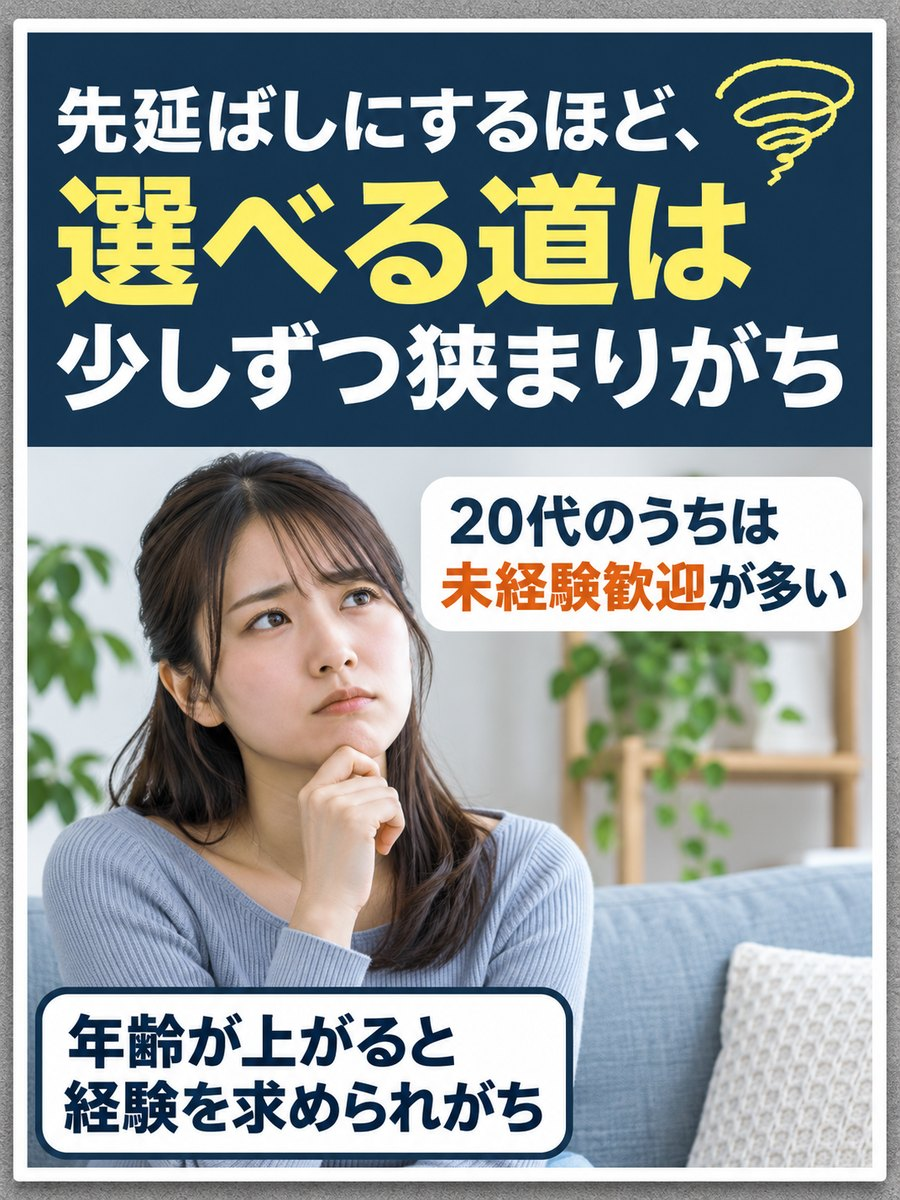
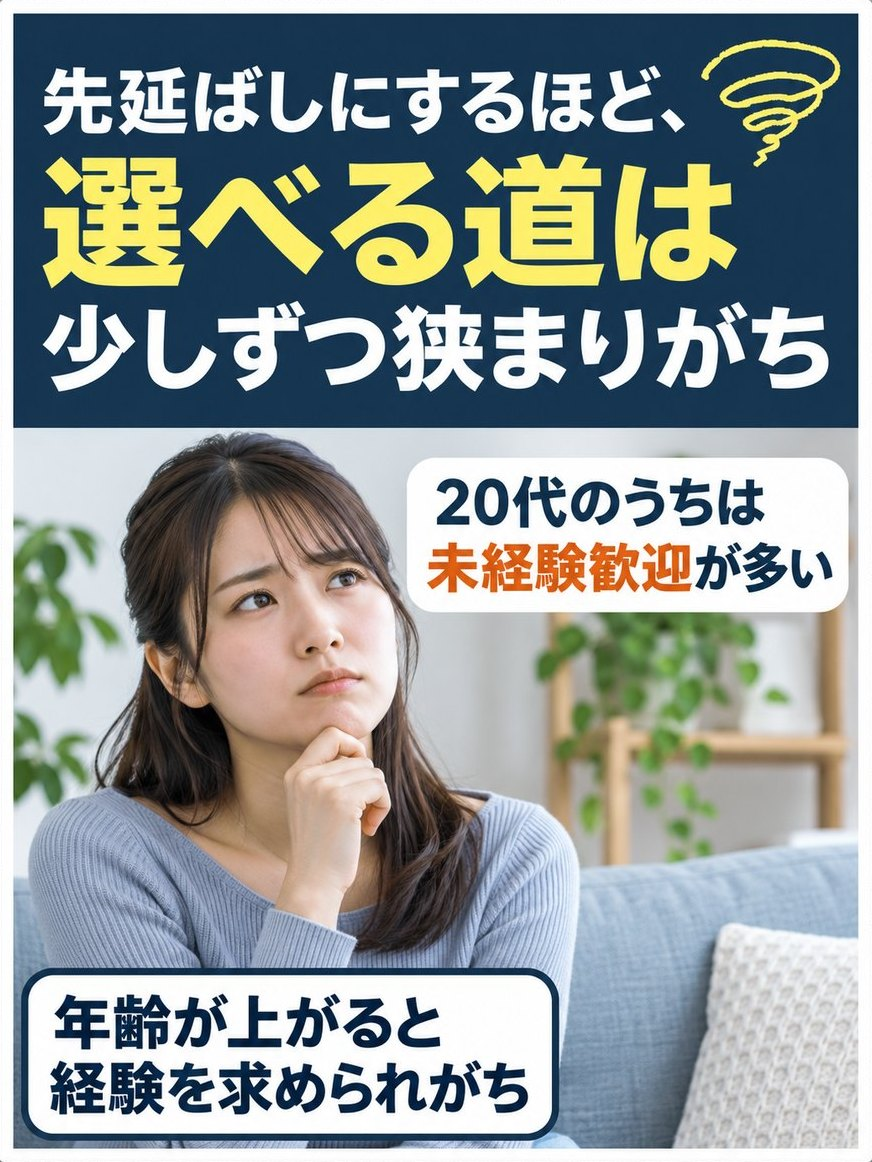
v2 round8: cracked-paper dark texture (GPT), FV person/medals, square voice & job cards

diff --git a/docs/v2/index.html b/docs/v2/index.html
@@ -70,10 +70,10 @@
 
 <!-- 5 暗転 -->
 <section class="dark"><i class="sp s1"></i><i class="sp s2"></i>
-  <p class="dk-lead">しかも、このまま<br>我慢して働き続けても、、、</p>
-  <img class="secimg dk" src="img/sec_dark1.jpg" width="900" height="1200" alt="先延ばしにするほど、選べる道は少しずつ狭まりがち。20代のうちは未経験歓迎が多い。年齢が上がると経験を求められがち。" loading="lazy">
-  <img class="secimg dk" src="img/sec_dark2.jpg" width="900" height="900" alt="休みも手取りもずっと変わらないまま。数年後…。いまの職場／動いた場合。" loading="lazy">
-  <img class="secimg dk" src="img/sec_dark3.jpg" width="900" height="900" alt="心にも時間にも余裕ナシ。なんてことに、、！" loading="lazy">
+  <p class="dk-lead"><span class="l1">しかも、このまま</span><br><span class="l2">我慢して働き続けても、、、</span></p>
+  <img class="secimg dk" src="img/sec_dark1.jpg" width="872" height="1162" alt="先延ばしにするほど、選べる道は少しずつ狭まりがち。20代のうちは未経験歓迎が多い。年齢が上がると経験を求められがち。" loading="lazy">
+  <img class="secimg dk" src="img/sec_dark2.jpg" width="860" height="854" alt="休みも手取りもずっと変わらないまま。数年後…。いまの職場／動いた場合。" loading="lazy">
+  <img class="secimg dk" src="img/sec_dark3.jpg" width="858" height="860" alt="心にも時間にも余裕ナシ。なんてことに、、！" loading="lazy">
 </section>
 
 <!-- 6 どうすれば／エージェント -->
@@ -153,18 +153,18 @@
 <section class="jobs">
   <h2 class="jb-h">こんな求人の相談が多いです</h2>
   <ul class="jb-chips"><li>平均年収<b>113万円UP</b></li><li>内定率<b>80%以上</b></li><li>定着率<b>96%</b></li></ul>
-    <img class="cardimg jobimg" src="img/sec_job1.jpg" width="900" height="1125" alt="一般事務・営業事務：土日祝休みの求人を中心に／未経験歓迎のものから／残業の少なさも確認／勤務地・働き方を相談" loading="lazy">
-  <img class="cardimg jobimg" src="img/sec_job2.jpg" width="900" height="1125" alt="カスタマーサポート：電話・チャット・メール対応／研修のある職場を中心に／人と話すのが好きな方向け／未経験歓迎" loading="lazy">
-  <img class="cardimg jobimg" src="img/sec_job3.jpg" width="900" height="1125" alt="リモート事務職：在宅でできる仕事も相談可／出社の頻度は求人ごとに確認／通勤の負担を減らしたい方に／未経験歓迎" loading="lazy">
+    <img class="cardimg jobimg" src="img/sec_job1.jpg" width="900" height="900" alt="一般事務・営業事務：土日祝休みの求人を中心に／未経験歓迎のものから／残業の少なさも確認／勤務地・働き方を相談" loading="lazy">
+  <img class="cardimg jobimg" src="img/sec_job2.jpg" width="900" height="900" alt="カスタマーサポート：電話・チャット・メール対応／研修のある職場を中心に／人と話すのが好きな方向け／未経験歓迎" loading="lazy">
+  <img class="cardimg jobimg" src="img/sec_job3.jpg" width="900" height="900" alt="リモート事務職：在宅でできる仕事も相談可／出社の頻度は求人ごとに確認／通勤の負担を減らしたい方に／未経験歓迎" loading="lazy">
   <p class="note c">※求人は時期や地域によって変わります。紹介できる内容は相談時にお伝えします。</p>
 </section>
 
 <!-- 11 声（相談例） -->
 <section class="voices">
   <h2 class="vc-h"><small>CONSULT</small>無料相談で<br>よくあるご相談</h2>
-    <img class="cardimg" src="img/card_voice1.jpg" width="900" height="1200" alt="相談例01：正社員の経験がなくて応募していいのか不安。アルバイトだけでも相談して大丈夫です。未経験から応募できる求人を中心に、職務経歴書づくりから一緒に進めます。" loading="lazy">
-  <img class="cardimg" src="img/card_voice2.jpg" width="900" height="1200" alt="相談例02：辞めた理由をどう話せばいいかわからない。短期間で辞めた理由は、言い方を整えるところから始めます。面接の前に、LINEで何度でも練習できます。" loading="lazy">
-  <img class="cardimg" src="img/card_voice3.jpg" width="900" height="1200" alt="相談例03：まだ転職するか決めていない。迷っている段階でも大丈夫です。話してみて、今は動かないと決めてもかまいません。催促はしません。" loading="lazy">
+    <img class="cardimg" src="img/card_voice1.jpg" width="900" height="900" alt="相談例01：正社員の経験がなくて応募していいのか不安。アルバイトだけでも相談して大丈夫です。未経験から応募できる求人を中心に、職務経歴書づくりから一緒に進めます。" loading="lazy">
+  <img class="cardimg" src="img/card_voice2.jpg" width="900" height="900" alt="相談例02：辞めた理由をどう話せばいいかわからない。短期間で辞めた理由は、言い方を整えるところから始めます。面接の前に、LINEで何度でも練習できます。" loading="lazy">
+  <img class="cardimg" src="img/card_voice3.jpg" width="900" height="900" alt="相談例03：まだ転職するか決めていない。迷っている段階でも大丈夫です。話してみて、今は動かないと決めてもかまいません。催促はしません。" loading="lazy">
   <p class="note c">※よくあるご相談を例にした内容で、実際の個人の声ではありません。</p>
 </section>
 

diff --git a/docs/v2/style.css b/docs/v2/style.css
@@ -413,7 +413,7 @@ h1,h2,h3,p,li{word-break:auto-phrase;line-break:strict;overflow-wrap:anywhere}
 .badge{right:-2px;top:6px;width:104px;height:104px;background:radial-gradient(circle at 30% 25%,#2f5a86,var(--navy) 65%);border:3px solid #fff;box-shadow:0 0 0 2px var(--navy),0 6px 10px -4px rgba(0,0,0,.4);transform:rotate(-6deg)}
 .badge u{position:absolute;left:8px;bottom:-9px;width:0;height:0;border:9px solid transparent;border-top-color:var(--navy);border-bottom:0;transform:rotate(25deg)}
 /* 暗転 */
-.dark{background:linear-gradient(180deg,#e1e4e7 0,rgba(90,98,106,.6) 7%,rgba(40,48,58,.55) 100%),url(img/dark_texture.jpg) center/cover;position:relative}
+.dark{background:linear-gradient(180deg,#e1e4e7 0,rgba(90,98,106,.6) 7%,rgba(40,48,58,.55) 100%),url(img/dark_cracks2.jpg) center/cover;position:relative}
 .dk-card{border:3px solid #fff;box-shadow:0 8px 16px -8px rgba(0,0,0,.6)}
 .dk-h b{background:var(--ring) center/100% 100% no-repeat;padding:2px 12px;display:inline-block;color:#ffe98a}
 .how{position:relative;overflow:hidden}
@@ -508,7 +508,7 @@ h1,h2,h3,p,li{word-break:auto-phrase;line-break:strict;overflow-wrap:anywhere}
 .reasons .cardimg{margin:0}
 .voices .cardimg{margin:0 0 16px}
 .voices{padding:20px 12px 8px}
-.dark{background:linear-gradient(180deg,#e1e4e7 0,rgba(110,110,110,.25) 8%,rgba(60,60,60,.35) 100%),#767676 url(img/dark_cracks.jpg) center/cover}
+.dark{background:linear-gradient(180deg,#e1e4e7 0,rgba(110,110,110,.25) 8%,rgba(60,60,60,.35) 100%),#767676 url(img/dark_cracks2.jpg) center/cover}
 .cases{padding:18px 4px 24px;gap:28px}
 
 /* ---- round 4: セクション画像（GPT生成・文字入り） ---- */
@@ -624,3 +624,22 @@ h1,h2,h3,p,li{word-break:auto-phrase;line-break:strict;overflow-wrap:anywhere}
 .omakase .secimg,.stripe .secimg{width:94%;margin:0 auto}
 .omakase,.stripe{background:#fff}
 .tokuten .secimg{height:338px;object-fit:cover;object-position:50% 40%}
+
+/* ===== round 8 ===== */
+.dark{background:#6f6f6f url(img/dark_cracks2.jpg) center top/100% auto repeat-y}
+.dk-lead{position:relative;padding-bottom:16px;margin-bottom:18px;color:#fff}
+.dk-lead:after{content:'';position:absolute;left:4px;right:4px;bottom:0;height:1.5px;background:#fff}
+.dk-lead:before{content:'';position:absolute;left:50%;bottom:-6px;width:12px;height:12px;margin-left:-6px;background:#6f6f6f;border-right:1.5px solid #fff;border-bottom:1.5px solid #fff;transform:rotate(45deg) scale(.7);transform-origin:center}
+.dark .sp{opacity:.7}
+.dark .dk{box-shadow:0 6px 14px -6px rgba(0,0,0,.55)}
+.dk-lead .l1{font-size:15px;font-weight:700;letter-spacing:.08em}
+.dk-lead .l2{font-size:21px;font-weight:900;letter-spacing:.04em}
+.fv-img{width:300px;right:-6px;bottom:6px;-webkit-mask-image:linear-gradient(180deg,#000 80%,transparent 100%);mask-image:linear-gradient(180deg,#000 80%,transparent 100%)}
+.medals{bottom:16px}
+.voices{background:#fff}
+.voices .vc-h small{color:#e9eef2}
+.jobs .jobimg{width:92%;margin:0 auto 14px}
+.voices .cardimg{width:92%;margin:0 auto 14px}
+.omakase .secimg,.stripe .secimg{width:100%}
+.reasons .cardimg{width:100%}
+.tokuten .secimg{height:380px}

diff --git a/docs/v2/GOAL_TASKS.md b/docs/v2/GOAL_TASKS.md
@@ -57,3 +57,8 @@
 - 事例カードを作り直し（グラフ強化・公式に載っている事例のみ）。「※個人の感想・成果を保証するものではありません」を追加。
 - 数字バンドを圧縮（690px→約380px）。ページ下部に「※各社公表データ（集計期間・定義を見る）」の折りたたみ。
 - マイナビ98.6%/82.5%は再確認できなかったため削除。
+
+## Round 8
+- 暗転セクション：GPTでひび割れ・紙質の背景テクスチャ（71_dark_cracks2.json）を作り、背景にタイル。カード外周の灰色の余白を切り落とし、見出しに下線＋ノッチ。
+- FV：人物を縮小しメダルと重ねる位置をキャリカミに合わせた。
+- 声・求人例カードを正方形の大きな文字入り画像に作り直し（高さは増やさず迫力アップ）。求人例に年収レンジは入れていない。
